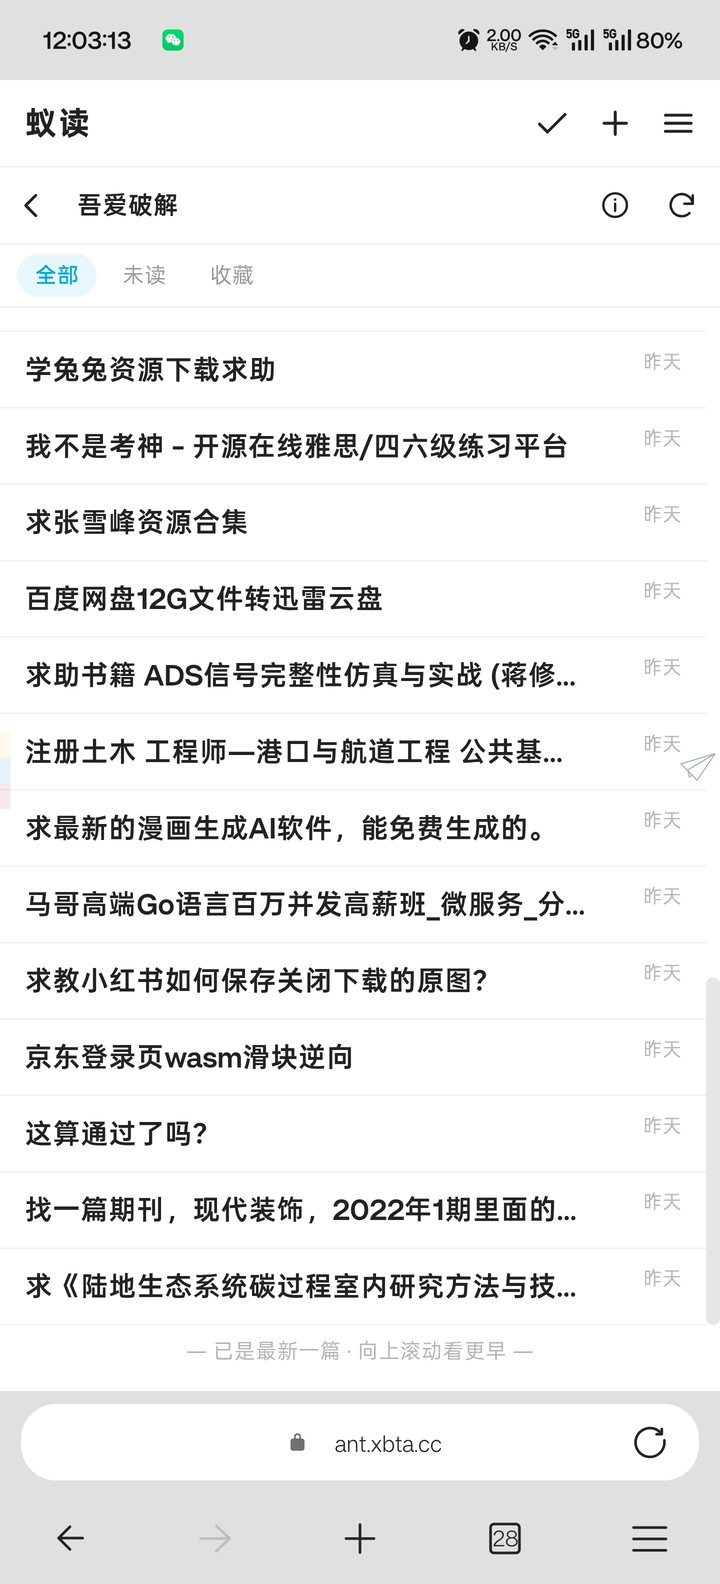
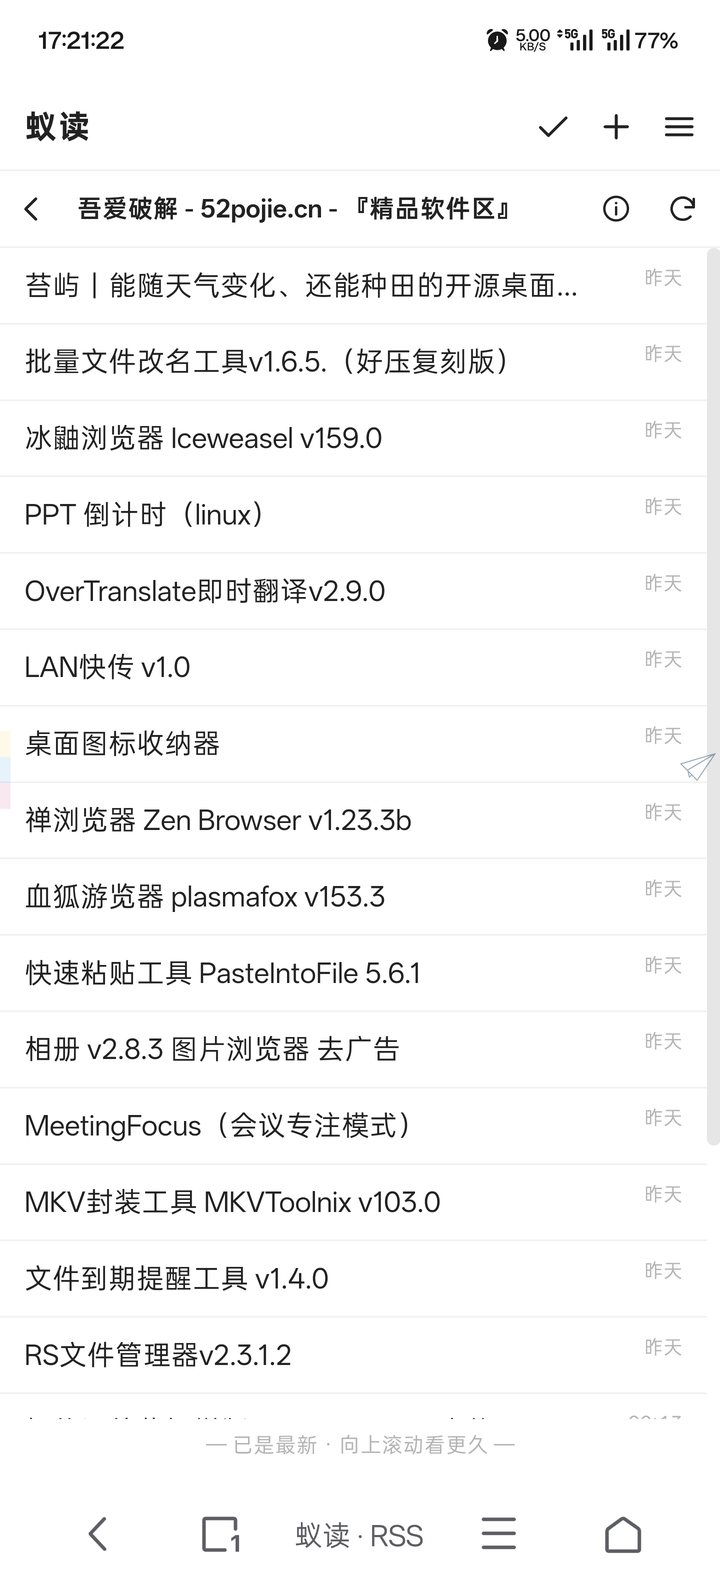
docs: 重写 README + 更新全套界面截图（v3.2.1）
- 截图换成当前界面：订阅源列表 / 只显示未读的文章列表 / 原地展开 / ⭐收藏 / 侧边菜单 / 整理订阅 / 账号设置字体字号 / 桌面列表
- README 重写：极简定位、默认只看未读+下拉加载更久、读到这里、时间正序、字体字号自定义
- 部署章节补参数速查（Cron/保留条数）与四个常见坑
- API 表补 order / before / read-before 说明
- 删除 3 张过时截图（04-feed-info / 06-desktop-list / 07-desktop-reader）

diff --git a/README.md b/README.md
@@ -1,32 +1,30 @@
 # 蚁读 · Ant Reader
 
-自托管的 RSS 阅读器，界面参照**蚁阅**的视觉语言重写：白底、极浅分割线、单列信息流、线性图标、浅灰胶囊未读徽章、亮蓝作为唯一强调色。
+自托管的 RSS 阅读器，界面照**蚁阅**的极简风格重写：白底、极细分割线、纯文字列表（标题 + 右侧日期）、亮蓝作为唯一强调色、未读深黑 / 已读浅灰。
 
-后端跑在 **Cloudflare Workers + D1**，前端是零构建的原生 HTML/CSS/JS，**运行时依赖 0**——克隆下来只要一条 `wrangler deploy` 就能上线，不用打包、不用服务器。
+后端跑在 **Cloudflare Workers + D1**，前端是零构建的原生 HTML/CSS/JS，**运行时依赖 0**——克隆下来一条 `wrangler deploy` 就上线，不用打包、不用买服务器。
 
-手机端是单列三级页面（订阅源 → 文章 → 阅读），桌面端自动变成两栏（订阅源 + 列表），选中文章后右侧展开正文变成三栏。
+手机是三级页面（订阅源 → 文章列表 → 展开正文），桌面是两栏（左侧订阅源 + 右侧文章列表），两者共用同一套极简列表。
 
 ---
 
 ## 界面预览
 
-**手机端：订阅源 → 文章列表 → 列表内展开**
+**手机端：订阅源 → 文章列表（只显示未读）→ 点一次原地展开正文**
 
-| 订阅源（未读徽章 + 更新时间） | 文章列表（旧上·新下） | 点一次原地展开 |
+| 订阅源（⭐收藏 + 未读徽章） | 文章列表 | 展开正文 |
 |:---:|:---:|:---:|
 | <img src="docs/screenshots/01-sources.jpg" width="230"> | <img src="docs/screenshots/02-articles.jpg" width="230"> | <img src="docs/screenshots/03-expand.jpg" width="230"> |
 
-**订阅源信息与侧边菜单**
+**收藏 / 侧边菜单 / 整理订阅 / 账号设置**
 
-| 订阅源信息（可改名／换组） | 侧边菜单（OPML／夜间／账号） |
-|:---:|:---:|
-| <img src="docs/screenshots/04-feed-info.jpg" width="230"> | <img src="docs/screenshots/05-menu.jpg" width="230"> |
+| ⭐ 收藏 | 侧边菜单 | 整理订阅 | 账号设置（字体字号） |
+|:---:|:---:|:---:|:---:|
+| <img src="docs/screenshots/04-starred.jpg" width="200"> | <img src="docs/screenshots/05-menu.jpg" width="200"> | <img src="docs/screenshots/06-manage.jpg" width="200"> | <img src="docs/screenshots/07-settings.jpg" width="200"> |
 
-**桌面端：两栏列表 → 三栏阅读**
+**桌面端**
 
-<img src="docs/screenshots/06-desktop-list.jpg" width="880">
-
-<img src="docs/screenshots/07-desktop-reader.jpg" width="880">
+<img src="docs/screenshots/08-desktop.jpg" width="880">
 
 ---
 
@@ -34,32 +32,34 @@
 
 ### 订阅管理
 - 添加时自动发现 Feed——填站点首页即可，自动找到 RSS/Atom 地址
-- 分组、改名、换组、删除；订阅源信息面板里能看到文章数、最新一篇、最后抓取、抓取状态（失败会显示具体原因）、站点、添加时间，也能直接删除该源
-- 「整理订阅」面板：默认列出全部源并支持按名称/地址即时搜索，新建分组走弹窗（点「＋ 新建分组」→ 填名字）
+- 分组、改名、换组、删除；「订阅源信息」面板能看到文章数、最新一篇、最后抓取、抓取状态（失败显示具体原因）、站点、添加时间，也能直接删源
+- 「整理订阅」面板：顶部按名称/地址即时搜索，改动分组用下拉，新建分组走弹窗
 - OPML 一键导出／导入（导入自动建分组，重复源自动跳过）
-- 单源手动刷新 + 全局刷新 + Cron 每 30 分钟自动抓取（每轮最多 40 个源、并发 5，源多时按「最久未抓」轮转）
+- 单源手动刷新 + 全局刷新 + 下拉刷新 + Cron 每 30 分钟自动抓取
 
 ### 阅读
-- **默认只看未读**：点开订阅源只列出未读文章（界面极简到只剩标题 + 右侧日期）；读完想看历史，在列表顶部下拉（「↑ 下拉加载更久」）或继续向上滚动，已读的更久文章才逐段带出来
-- **纯时间序**：旧的在上面、新的在下面；打开时把**最旧的一条未读**顶到屏幕上方，从断点续读；加载更久时插到列表前面，当前阅读位置不跳
-- **未读/已读一眼区分**：未读是深黑加粗，已读转浅灰
-- **列表即读**：点一次在卡片内原地展开正文（HTML 渲染，保留图片与排版），再点一次跳原文
-- **读到这里**：点开一篇时，它和列表里比它更旧的未读一起标为已读；下界取「当前已加载列表里最旧的一条」，不会误清视野之外的历史；一次超过 30 篇会弹确认
-- 顶部 ✓ 一键把当前订阅源（或分组）全部标已读；单篇可标记已读/未读、收藏；收藏列表从侧边菜单进入
-- 未读清空时给空状态提示，并留「查看更久的文章」入口，不会出现白屏
+- **默认只看未读**：点开订阅源只列出未读文章，界面只剩标题 + 右侧日期；已读不占地方
+- **要看历史就下拉**：列表顶部下拉（「↑ 下拉加载更久」）或继续向上滚动，更早的文章（多半已读）逐段带出来，插入位置做滚动补偿，当前阅读不跳
+- **纯时间序**：旧的在上面、新的在下面；打开时把最旧的一条未读顶到屏幕上方，从断点续读
+- **读到这里**：点开一篇时，它和列表里比它更旧的未读一起标已读（下界为当前已加载的最旧一条，不会误清历史；一次超过 30 篇会先确认）
+- **点一次原地展开正文**（HTML 渲染、保留图片），再点一次跳原文；桌面同样原地展开
+- 顶部 ✓ 一键把当前订阅源／分组全部标已读；单篇可标已读/未读、收藏
+- ⭐ 收藏列表独立入口，按时间序展示
 - 正文服务端净化后渲染（白名单标签、去脚本、去事件属性、相对链接转绝对）
-- 每个源最多保留 300 条，抓取时自动裁掉最旧的；另可选按天数清理已读、未收藏的旧文章（默认关闭）
 
 ### 界面
+- 可自定义**字体**（系统默认 / 无衬线 / 衬线 / 楷体 / 等宽）与**字号**（90% / 100% / 110% / 125%），选完即时生效，记在本机
 - 白天／夜间主题，跟随本地记忆
-- 可自定义**字体**（系统默认 / 无衬线 / 衬线 / 楷体 / 等宽）与**字号**（90% / 100% / 110% / 125%），改完即时生效并记在本机
+- 桌面顶栏只占左栏宽度，与右栏标题行同高，一眼干净
 - 桌面快捷键：`j`/`k` 上下篇、`o` 开原文、`m` 已读、`s` 收藏、`r` 刷新
-- 下拉刷新（列表、订阅源列表均可）
-- 移动端底部提示「已是最新一篇 · 向上滚动看更早」
+
+### 数据
+- 每个源最多保留 300 条，抓取时自动裁掉最旧的
+- 可选按天数清理已读、未收藏的旧文章（`retention_days` 默认 0，即不清理）
 
 ### 安全
-- 单用户口令登录，PBKDF2-SHA256 10 万轮哈希
-- HMAC-SHA256 签名的 HttpOnly Cookie 会话
+- 单用户口令登录，PBKDF2-SHA256 10 万轮
+- HMAC-SHA256 签名 HttpOnly Cookie 会话
 - 首次访问引导设置密码，无默认口令
 
 ### 兼容
@@ -74,8 +74,8 @@
 | 运行时 | Cloudflare Workers | 单入口 `src/index.js`，ESM 模块 |
 | 数据库 | Cloudflare D1 (SQLite) | 订阅源、文章、分组、设置四张表 |
 | 静态资源 | Workers Static Assets | `public/` 直接托管，零构建 |
-| 定时任务 | Workers Cron Triggers | `*/30 * * * *` |
-| 前端 | 原生 HTML/CSS/JS | 无框架、无构建，约 30 KB |
+| 定时任务 | Workers Cron Triggers | `*/30 * * * *`，每轮最多 40 源、并发 5 |
+| 前端 | 原生 HTML/CSS/JS | 无框架、无构建，约 40 KB |
 
 `package.json` 里只有 `wrangler` 一个 devDependency，运行时依赖为 0。
 
@@ -85,9 +85,9 @@
 
 ### 0. 前置条件
 
-- Cloudflare 账号（免费版足够：Workers 免费额度每日 10 万次请求，D1 免费 5 GB 存储 / 500 万行读）
+- Cloudflare 账号（免费版够：Workers 每日 10 万次请求，D1 免费 5 GB 存储 / 500 万行读）
 - 本地 Node.js 18+（只在部署时用）
-- **可选**：一个已托管在 Cloudflare 的域名（想用自定义域名时需要）
+- **可选**：一个已托管在 Cloudflare 的域名（想绑自定义域名时需要）
 
 ### 1. 克隆并登录
 
@@ -98,7 +98,7 @@ npm install
 npx wrangler login
 ```
 
-`wrangler login` 会拉起浏览器授权；无桌面环境时改用 API Token：
+无桌面环境时改用 API Token：
 
 ```bash
 export CLOUDFLARE_API_TOKEN="你的 token"
@@ -111,32 +111,22 @@ export CLOUDFLARE_ACCOUNT_ID="你的 account id"
 npx wrangler d1 create ant-reader-db
 ```
 
-会输出形如下面的结果，把 `database_id` 填进 `wrangler.jsonc`：
-
-```
-✅ Successfully created DB 'ant-reader-db'
-database_id = "xxxxxxxx-xxxx-xxxx-xxxx-xxxxxxxxxxxx"
-```
+把输出里的 `database_id` 填进 `wrangler.jsonc`：
 
 ```jsonc
-// wrangler.jsonc
 "d1_databases": [
-  {
-    "binding": "DB",
-    "database_name": "ant-reader-db",
-    "database_id": "xxxxxxxx-xxxx-xxxx-xxxx-xxxxxxxxxxxx"  // ← 换成你的
-  }
+  { "binding": "DB", "database_name": "ant-reader-db", "database_id": "xxxxxxxx-xxxx-xxxx-xxxx-xxxxxxxxxxxx" }
 ]
 ```
 
 ### 3. 建表
 
 ```bash
-npm run db:init          # 远端库建表
-npm run db:init:local    # 本地开发库建表（可选）
+npm run db:init          # 远端库
+npm run db:init:local    # 本地开发库（可选）
 ```
 
-等价于 `npx wrangler d1 execute ant-reader-db --remote --file=./schema.sql`，会创建 `groups` / `feeds` / `items` / `settings` 四张表与四个索引。
+等价于 `npx wrangler d1 execute ant-reader-db --remote --file=./schema.sql`，建 `groups` / `feeds` / `items` / `settings` 四张表与四个索引。
 
 ### 4. 部署
 
@@ -144,29 +134,29 @@ npm run db:init:local    # 本地开发库建表（可选）
 npm run deploy
 ```
 
-输出里会给出访问地址 `https://ant-reader.<你的子域>.workers.dev`。首次打开会要求设置访问密码（至少 4 位）。
+输出会给出 `https://ant-reader.<你的子域>.workers.dev`。首次打开要求设置访问密码（至少 4 位）。
 
-> 刚部署完立刻访问偶尔会 522/404，这是边缘节点传播延迟，等 30 秒再刷新即可。
+> 刚部署完立刻访问偶尔 522/404，是边缘传播延迟，等 30 秒再刷。
 
 ### 5. 绑定自定义域名（可选）
 
-**方式 A（推荐）**：`wrangler.jsonc` 里用 `routes`，同时在 DNS 加一条 `AAAA rss → 100::`（橙色云 / 已代理）：
+**方式 A（推荐）**：`wrangler.jsonc` 用 `routes`，同时 DNS 加一条 `AAAA rss → 100::`（橙色云／已代理）：
 
 ```jsonc
 "routes": [{ "pattern": "rss.example.com/*", "zone_name": "example.com" }]
 ```
 
-**方式 B**：用 Workers 自定义域：
+**方式 B**：Workers 自定义域：
 
 ```jsonc
 "routes": [{ "pattern": "rss.example.com", "custom_domain": true }]
 ```
 
-两种都能用。A 的好处是走 zone 的通配符证书，不会给这个子域单独签发证书、也就不会写进 CT 日志；B 会多签一张证书并暴露子域名。
+两种都能用。A 走 zone 的通配符证书，不会为这个子域单独签证书、也就不会写进 CT 日志；B 会多签一张并暴露子域名。
 
 ### 6. 会话密钥（可选）
 
-不设置时，首次启动会在 D1 的 `settings` 表自动生成一个随机密钥。想显式指定（多环境共用或轮换）：
+不设置时首次启动会在 D1 `settings` 表生成随机密钥。想显式指定：
 
 ```bash
 npx wrangler secret put SESSION_SECRET
@@ -175,10 +165,10 @@ npx wrangler secret put SESSION_SECRET
 ### 7. 验证
 
 ```bash
-curl https://你的域名/api/health
+curl https://你的域名/api/health      # 返回 {"ok":true,...} 即正常
 ```
 
-返回 `{"ok":true,...}` 即正常。首次访问站点 → 设置密码 → 添加第一个订阅源。
+然后打开站点 → 设密码 → 添加第一个订阅源。
 
 ### 部署参数速查
 
@@ -189,27 +179,27 @@ curl https://你的域名/api/health
 | 静态资源目录 / 绑定 | `./public` / `ASSETS` |
 | SPA 兜底 | `not_found_handling: single-page-application` |
 | Worker 优先接管 | `/api/*` |
-| Cron | `*/30 * * * *`（每 30 分钟） |
+| Cron | `*/30 * * * *` |
 | 兼容日期 | `2026-05-03` |
 | 每源保留条数 | 300（`src/feeds.js` 的 `FEED_KEEP_ITEMS`） |
 
 ### 常见问题
 
 **`iteration counts above 100000 are not supported`**
-Workers 生产环境 PBKDF2 迭代上限是 10 万轮（本地 workerd 不限制，所以本地通过、线上报错）。代码里已固定 100000，不要为了"更安全"调高。
+Workers 生产环境 PBKDF2 迭代上限 10 万轮（本地 workerd 不限，所以本地过、线上报错）。代码已固定 100000，别调高。
 
 **本地 `wrangler dev` 报 `SQLITE_IOERR disk I/O error`**
-把本地状态目录指到本机磁盘（不要放在网络挂载/虚拟文件系统上）：
+把本地状态目录指到本机磁盘：
 
 ```bash
 npx wrangler dev --persist-to /tmp/wrstate
 ```
 
-**抓取一直失败、信息面板显示 HTTP 403/Cloudflare 挑战**
-部分站点（如吾爱破解）有反爬，Workers 出口 IP 会被拦。这是源站策略问题，不是阅读器故障。
+**抓取一直失败、信息面板显示 HTTP 403**
+部分站点（如吾爱破解）有反爬，Workers 出口 IP 会被拦。这是源站策略，不是阅读器故障。
 
 **Cron 没跑**
-Cron 只在线上生效，`wrangler dev` 不会触发；本地测试用「立即刷新」按钮或 `/api/refresh`。
+Cron 只在线上生效，`wrangler dev` 不触发；本地测试用「立即刷新」或下拉刷新。
 
 ---
 
@@ -220,7 +210,7 @@ npm run db:init:local
 npm run dev          # http://127.0.0.1:8787
 ```
 
-首次访问同样引导设置密码。前端改动直接刷新页面即可，无需构建。
+首次访问同样引导设密码。前端改动刷新页面即可，无需构建。
 
 ```bash
 node tests/run.mjs   # 核心逻辑单测（57 项）
@@ -242,11 +232,11 @@ ant-reader/
 │   └── auth.js           # PBKDF2 口令 + HMAC 会话
 ├── public/
 │   ├── index.html        # SPA 骨架
-│   ├── app.css           # 全部样式（含响应式与夜间模式）
+│   ├── app.css           # 全部样式（含响应式、夜间模式、字体变量）
 │   ├── app.js            # 前端逻辑
 │   └── favicon.svg
 ├── docs/screenshots/     # README 截图
-├── tests/                # 单测 + 无头浏览器验收脚本
+├── tests/                # 单测 + 无头浏览器验收 + 线上探针
 ├── schema.sql            # D1 表结构
 └── wrangler.jsonc
 ```
@@ -269,37 +259,44 @@ ant-reader/
 | PATCH/DELETE | `/feeds/:id` | 改名、换组、删除 |
 | POST | `/feeds/:id/refresh` | 刷新单个源 |
 | POST | `/refresh` | 批量刷新（按最久未抓排序） |
-| GET | `/items` | 列表（`feed_id`/`group_id`/`unread`/`read`/`starred`/`q`/`order`/`limit`/`offset`） |
+| GET | `/items` | 列表（`feed_id`/`group_id`/`unread`/`read`/`starred`/`q`/`order`/`before`/`limit`/`offset`） |
 | GET/PATCH | `/items/:id` | 详情 / 改已读、收藏 |
-| POST | `/read-all` | 全部已读（可限定 feed） |
+| POST | `/read-before` | 「读到这里」：把某篇及更早的未读标已读（可带 `minTs` 下界） |
+| POST | `/read-all` | 全部已读（可限定 feed / group） |
 | GET/POST | `/opml` | 导出 / 导入 |
 | POST | `/groups`、PATCH/DELETE `/groups/:id` | 分组 |
-| PATCH | `/settings` | 刷新间隔等 |
+| PATCH | `/settings` | 其他设置 |
 | POST | `/password` | 改密码 |
 
-`/items` 支持 `order=asc|desc`：默认按发布时间升序（旧→新）；`desc` 用于首屏取「最新一页」，前端取回后反转渲染，从而实现「打开即在最新、向上翻历史」。
+`/items` 的两个关键参数：
+
+- `order=asc|desc`：默认时间升序（旧→新）；前端首屏用 `desc` 取最新一页再反转渲染，实现「打开即在最新、向上翻历史」
+- `before=<时间戳>`：只要比该时间更早的文章（含已读），这就是「下拉加载更久」用的游标
 
 ---
 
 ## 设计说明
 
-- **为什么自己写 XML 解析**：Workers 没有 DOM，引入 `fast-xml-parser` 就要打包步骤。自带一个约 200 行的容错解析器，能覆盖 RSS/Atom/RDF 的常见畸形写法（未转义 HTML、CDATA、命名空间前缀、属性内含 `>`），并且可以直接在 Node 里跑单测。
-- **为什么不在服务端做正文抓取**：标准版只存 Feed 自带内容。遇到只给摘要的源，阅读页底部会出现「去原文阅读」入口。
-- **Cron 轮转**：每次取 `last_fetch_at` 最早的 40 个源、并发 5 个抓取，避开 Workers 子请求上限与执行时长限制；订阅源超过 40 个时自动轮转。
-- **列表只到「最新」为止**：列表是时间正序，底部即最新。想让新抓到的文章进来，点刷新或等 Cron；页面不会自动跳到最新。
-- **保留策略**：默认只靠「每个源 300 条」硬上限，不按天数删（`retention_days` 默认 0）。把 `settings.retention_days` 设成正数后，每次 Cron 结束会删掉超过该天数、且已读、且未收藏的文章。
+- **为什么自己写 XML 解析**：Workers 没有 DOM，引入 `fast-xml-parser` 就要打包步骤。自带约 200 行容错解析器，能覆盖常见畸形写法（未转义 HTML、CDATA、命名空间前缀、属性内含 `>`），还能直接在 Node 里跑单测。
+- **为什么默认只看未读**：RSS 的痛点是未读堆积。默认把已读挡在外面，列表就只有"待读清单"，需要考古时再下拉带出历史。
+- **为什么时间正序（旧上新下）**：配合"最旧未读贴顶 + 读到这里"，形成一条从旧到新的连续阅读流水线；新文章永远在底部。
+- **为什么不在服务端抓正文**：标准版只存 Feed 自带内容。遇到只给摘要的源，展开区底部有「原文」入口。
+- **Cron 轮转**：每次取 `last_fetch_at` 最早的 40 个源、并发 5，避开 Workers 子请求上限与执行时长；源超过 40 个自动轮转。
+- **保留策略**：默认只靠「每源 300 条」硬上限，不按天数删（`retention_days` 默认 0）；设成正数后每次 Cron 结束会删超期、已读、未收藏的文章。
 
 ---
 
 ## 测试
 
 ```bash
-node tests/run.mjs     # 核心逻辑单测
+node tests/run.mjs     # 核心逻辑单测（57 项）
 ```
 
-覆盖 XML 解析（RSS2/Atom/RDF/JSON Feed/畸形输入）、实体与 CDATA、Feed 发现、HTML 净化、OPML 解析、口令哈希与会话签名。
+浏览器端另有：
 
-浏览器端另有 `tests/ui_e2e.py`（无头 Chromium + CDP，48 项 UI 断言）与 `tests/online_probe.py`（线上只读探针）。
+- `tests/ui_e2e.py`：无头 Chromium + CDP，60+ 项 UI 断言（本地库，`--reset-unread` 重置数据）
+- `tests/online_probe.py`：线上只读探针（截图 + 时间序/定位校验，不改数据）
+- `tests/dev_env.sh`：一键恢复本地开发环境（wrangler + 本地 D1 + 6 个种子源）
 
 ---
 
